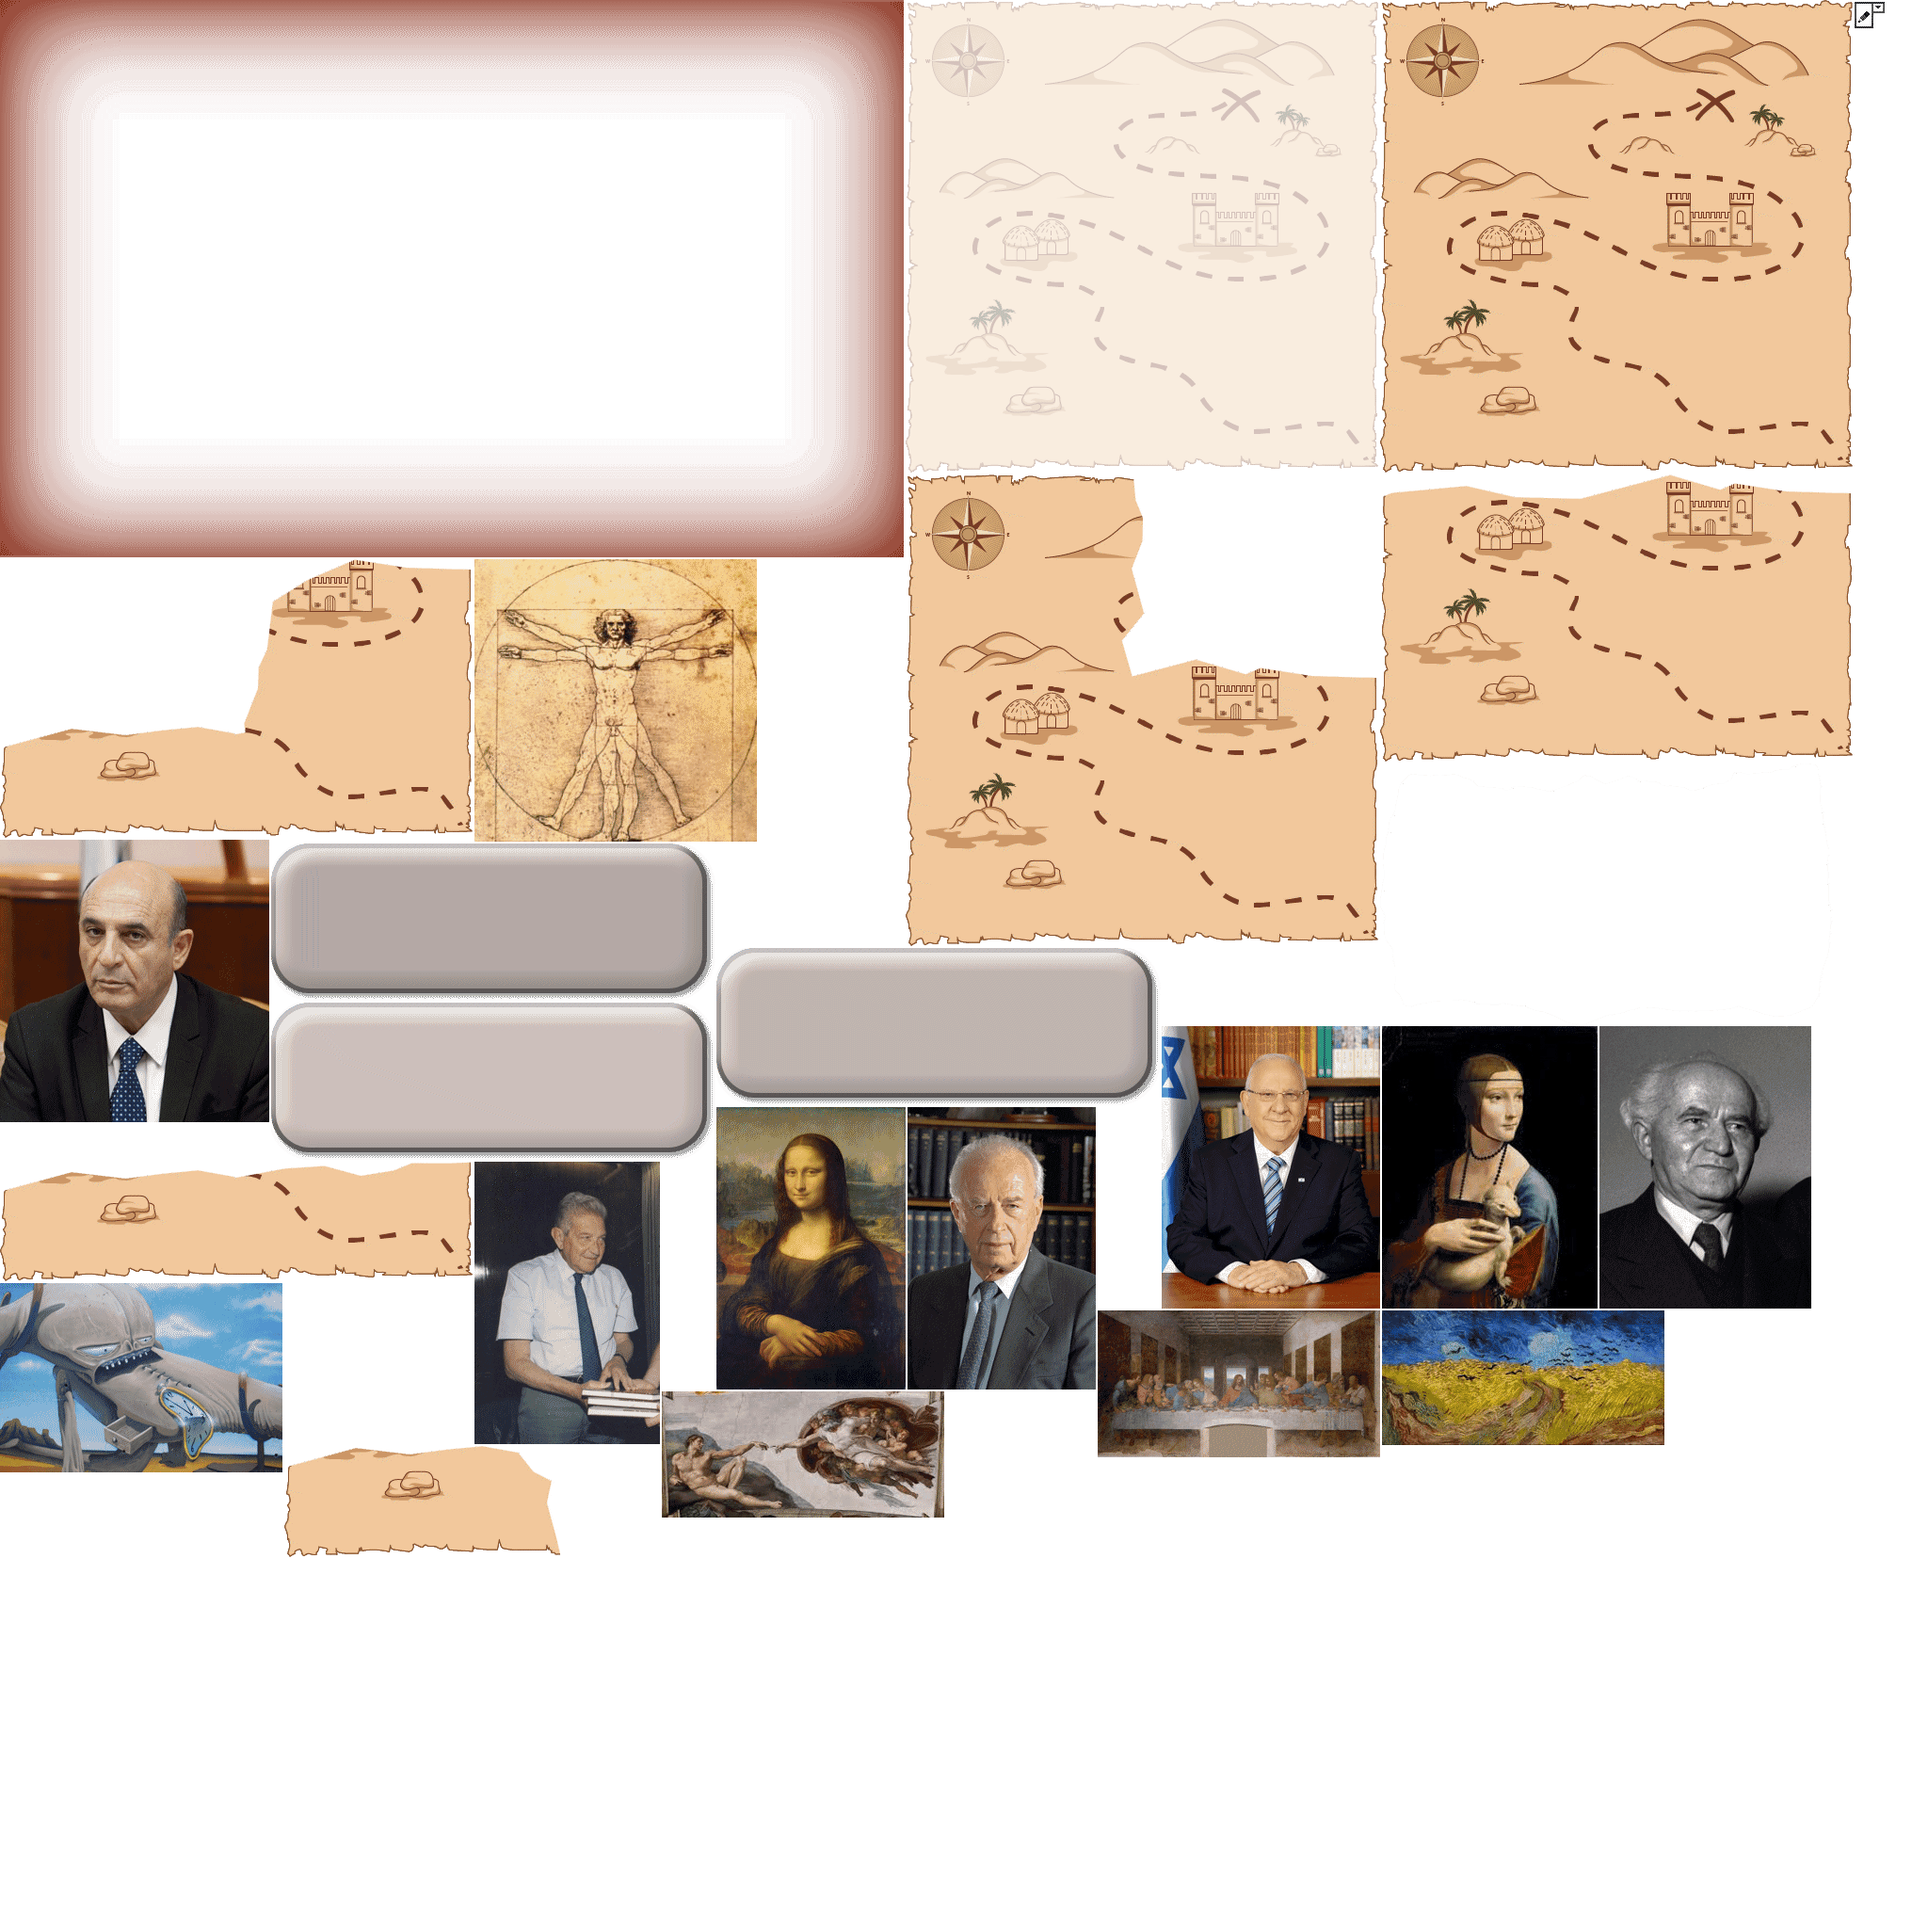
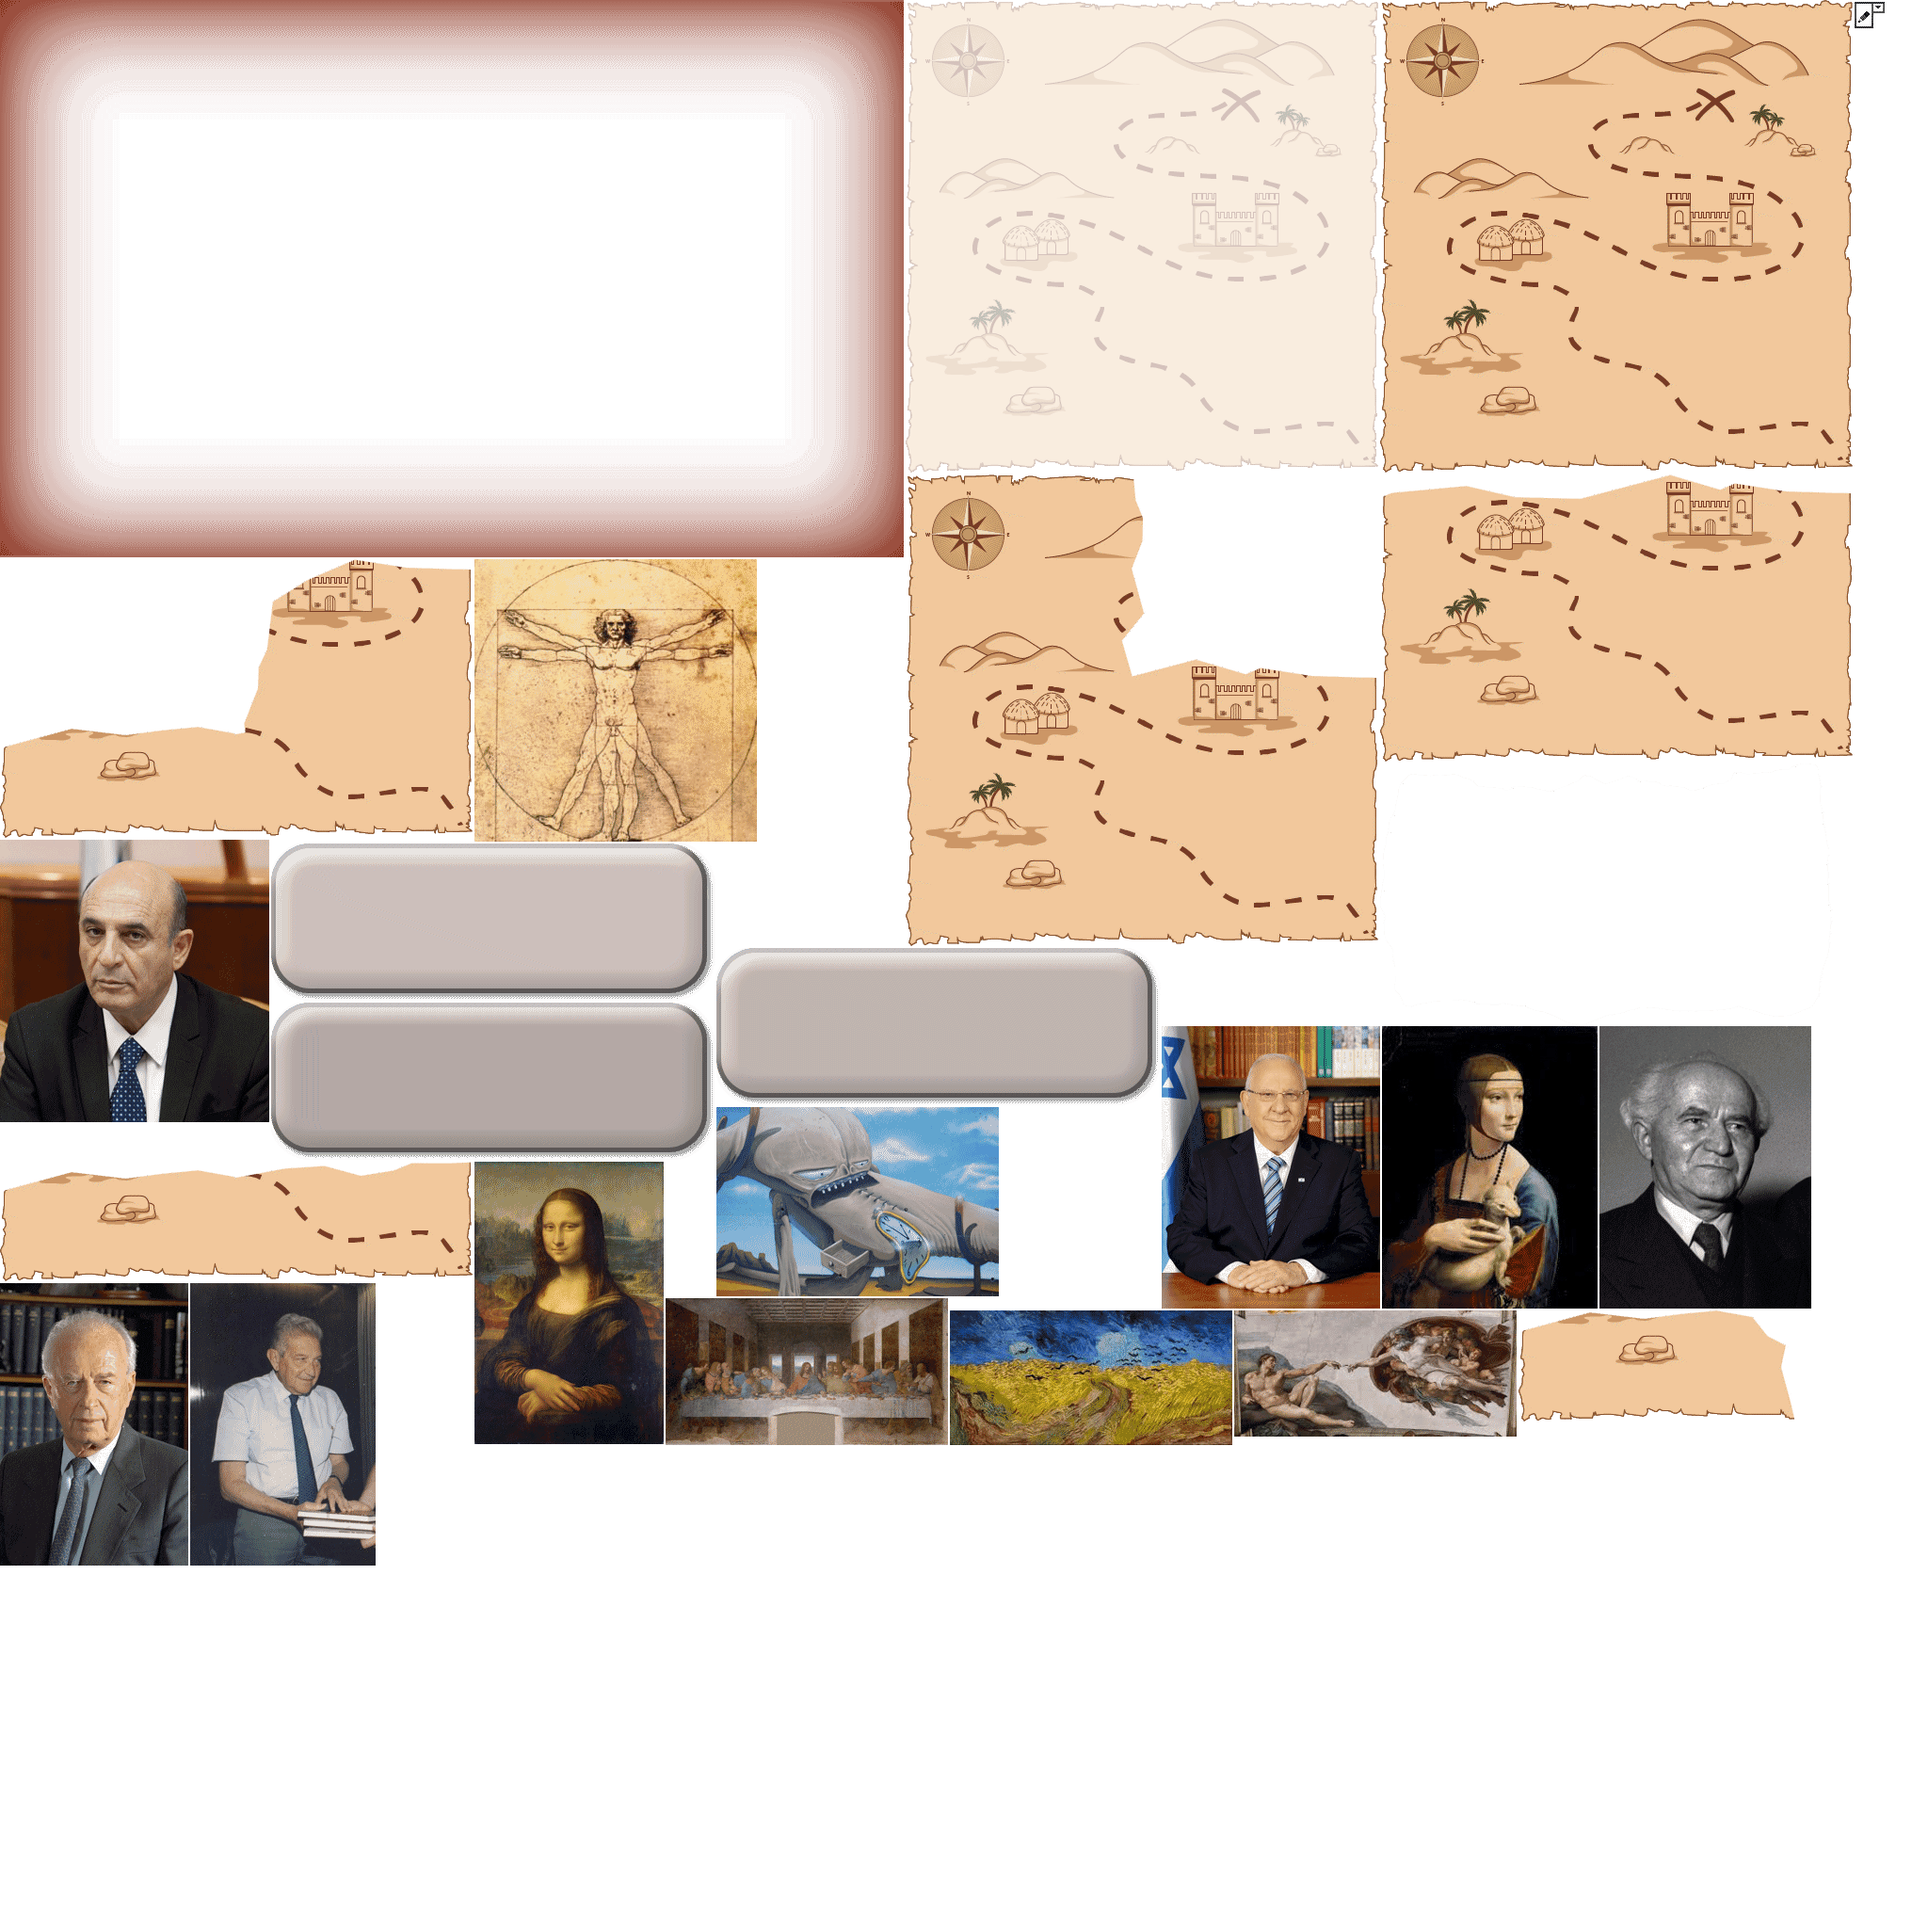
Add files via upload

Changed region(s): [[0.0, 0.4375, 0.9375, 0.8125]]

diff --git a/treasureMap/treasureMapV14.js b/treasureMap/treasureMapV14.js
@@ -3,7 +3,7 @@
 var p; // shortcut to reference prototypes
 var lib={};var ss={};var img={};
 lib.ssMetadata = [
-		{name:"treasureMapV14_atlas_", frames: [[1466,811,479,277],[1970,0,32,32],[0,1363,300,201],[1699,1090,225,300],[288,896,471,167],[504,1234,197,300],[1466,0,502,502],[962,0,502,502],[504,594,300,300],[703,1478,300,134],[1166,1392,300,156],[302,1536,294,118],[0,1234,502,127],[0,594,502,296],[1466,504,502,305],[962,504,502,501],[761,1176,201,300],[761,1007,471,167],[964,1176,200,300],[1234,1090,232,300],[0,892,286,300],[1468,1090,229,300],[288,1065,471,167],[1468,1392,300,143],[0,0,960,592]]}
+		{name:"treasureMapV14_atlas_", frames: [[1466,811,479,277],[1970,0,32,32],[761,1176,300,201],[1699,1090,225,300],[288,1065,471,167],[202,1363,197,300],[1466,0,502,502],[962,0,502,502],[504,594,300,300],[1311,1392,300,134],[707,1379,300,156],[1613,1392,294,118],[0,1234,502,127],[0,594,502,296],[1466,504,502,305],[962,504,502,501],[504,1234,201,300],[761,1007,471,167],[0,1363,200,300],[1234,1090,232,300],[0,892,286,300],[1468,1090,229,300],[288,896,471,167],[1009,1392,300,143],[0,0,960,592]]}
 ];
 
 
@@ -7050,6 +7050,13 @@ p.nominalBounds = new cjs.Rectangle(0,0,7995.4,699.1);
 			pauseLaod.y = 30;
 			pauseLaod.name = "myPause";
 			pauseLaod.addEventListener("click", pausedFunc);
+			pauseLaod.addEventListener("mouseover", function () {
+				pauseLaod.cursor = "pointer";
+			});
+			pauseLaod.addEventListener("mouseout", function () {
+				pauseLoad.cursor = "context-menu";
+			});
+			stage.addChild(pauseLaod);
 		
 			var playerLoad = new lib.playerLIB(); //העלאת שחקן
 			playerLoad.name = "myPlayer";
@@ -7619,24 +7626,25 @@ p.nominalBounds = new cjs.Rectangle(0,0,7995.4,699.1);
 			bigImage.y = stageH / 2 + 80;
 			bigImage.name = "bigImage";
 			stage.addChild(bigImage);
-			
+		
 			scaleBound = 0; //שינוי מרווח בין התמונה למסגרת שלה
 			var picBigLocation = evt.currentTarget.name.charAt(0); //זיהוי על פי שם באיזה תא גדול במערך נמצאת התמונה עליה לחצו (מתאים או לא מתאים לקטגוריה)
 			var picSmallLocation = evt.currentTarget.name.charAt(1); //זיהוי על פי שם באיזה תא קטן במערך נמצאת התמונה עליה לחצו (איזו אפשרות מהתשובות הקיימות)
-			
+		
 			var bigAnswerPIC = new myEndGame[picBigLocation][picSmallLocation][0](); //העלאת תמונה לפי המיקום במערך
-			
+		
 			bigAnswerPIC.scaleX = picSizeFunc(bigImage.endBigAnswerSpace, bigAnswerPIC); //התאמת גודל התמונה לגודל המסגרת
 			bigAnswerPIC.scaleY = picSizeFunc(bigImage.endBigAnswerSpace, bigAnswerPIC);
 			bigImage.addChild(bigAnswerPIC);
-			
+		
 			bigImage.addEventListener("pressmove", dragFunc); //הוספת אפשרות לגרירה
 			bigImage.addEventListener("pressup", releaseFunc); //שחרור אובייקט מגרירה
 			hasBigImage = true; //הצהרה כי יש תמונה גדולה על המסך
-			
+		
 			var closeBTN = new lib.endXbtnLIB(); //העלאת כפתור סגירה לתמונה
 			closeBTN.x = -269;
 			closeBTN.y = -168;
+			closeBTN.name = "endCloseBTN";
 			closeBTN.addEventListener("click", function () { //אירוע לחיצה על כפתור הסגירה
 				stage.removeChild(bigImage); //הסרת האובייקט
 			});
@@ -7667,6 +7675,8 @@ p.nominalBounds = new cjs.Rectangle(0,0,7995.4,699.1);
 			stage.removeChild(stage.getChildByName("separatorLine")); //הסרת קו מפריד בין עמודות
 			stage.removeChild(stage.getChildByName("newGameBTN")); //הסרת כפתור סיום
 			stage.removeChild(stage.getChildByName("restartGameBTN")); //הסרת כפתור התחל מחדש 
+			stage.removeChild(stage.getChildByName("bigImage")); //הסרת תמונה גדולה במידה ונשארה פתוחה בלחיצה על כפתור
+			stage.removeChild(stage.getChildByName("endCloseBTN")); //הסרת כפתור הסגירה במידה ונשארה תמונה גדולה פתוחה בלחיצה על אחד מהכפתורים
 		}
 	}
 
@@ -7692,12 +7702,12 @@ lib.properties = {
 	color: "#FFFFFF",
 	opacity: 1.00,
 	manifest: [
-		{src:"images/treasureMapV14_atlas_.png?1517912559869", id:"treasureMapV14_atlas_"},
-		{src:"sounds/rightSound.mp3?1517912560719", id:"rightSound"},
-		{src:"sounds/wrongSoundwav.mp3?1517912560719", id:"wrongSoundwav"},
-		{src:"https://code.jquery.com/jquery-2.2.4.min.js?1517912560719", id:"lib/jquery-2.2.4.min.js"},
-		{src:"components/sdk/anwidget.js?1517912560719", id:"sdk/anwidget.js"},
-		{src:"components/ui/src/combobox.js?1517912560719", id:"an.ComboBox"}
+		{src:"images/treasureMapV14_atlas_.png?1517927041772", id:"treasureMapV14_atlas_"},
+		{src:"sounds/rightSound.mp3?1517927042806", id:"rightSound"},
+		{src:"sounds/wrongSoundwav.mp3?1517927042806", id:"wrongSoundwav"},
+		{src:"https://code.jquery.com/jquery-2.2.4.min.js?1517927042806", id:"lib/jquery-2.2.4.min.js"},
+		{src:"components/sdk/anwidget.js?1517927042806", id:"sdk/anwidget.js"},
+		{src:"components/ui/src/combobox.js?1517927042806", id:"an.ComboBox"}
 	],
 	preloads: []
 };

diff --git a/treasureMap/treasureMapV14.html b/treasureMap/treasureMapV14.html
@@ -1,4 +1,4 @@
-<!DOCTYPE html>
+<!DOCTYPE html>
 <!--
 	NOTES:
 	1. All tokens are represented by '$' sign in the template.
@@ -22,7 +22,7 @@
   }
 </style>
 <script src="https://code.createjs.com/createjs-2015.11.26.min.js"></script>
-<script src="treasureMapV14.js?1517912560885"></script>
+    <script src="treasureMapV14.js"></script>
 <script>
 var canvas, stage, exportRoot, anim_container, dom_overlay_container, fnStartAnimation;
 function init() {
